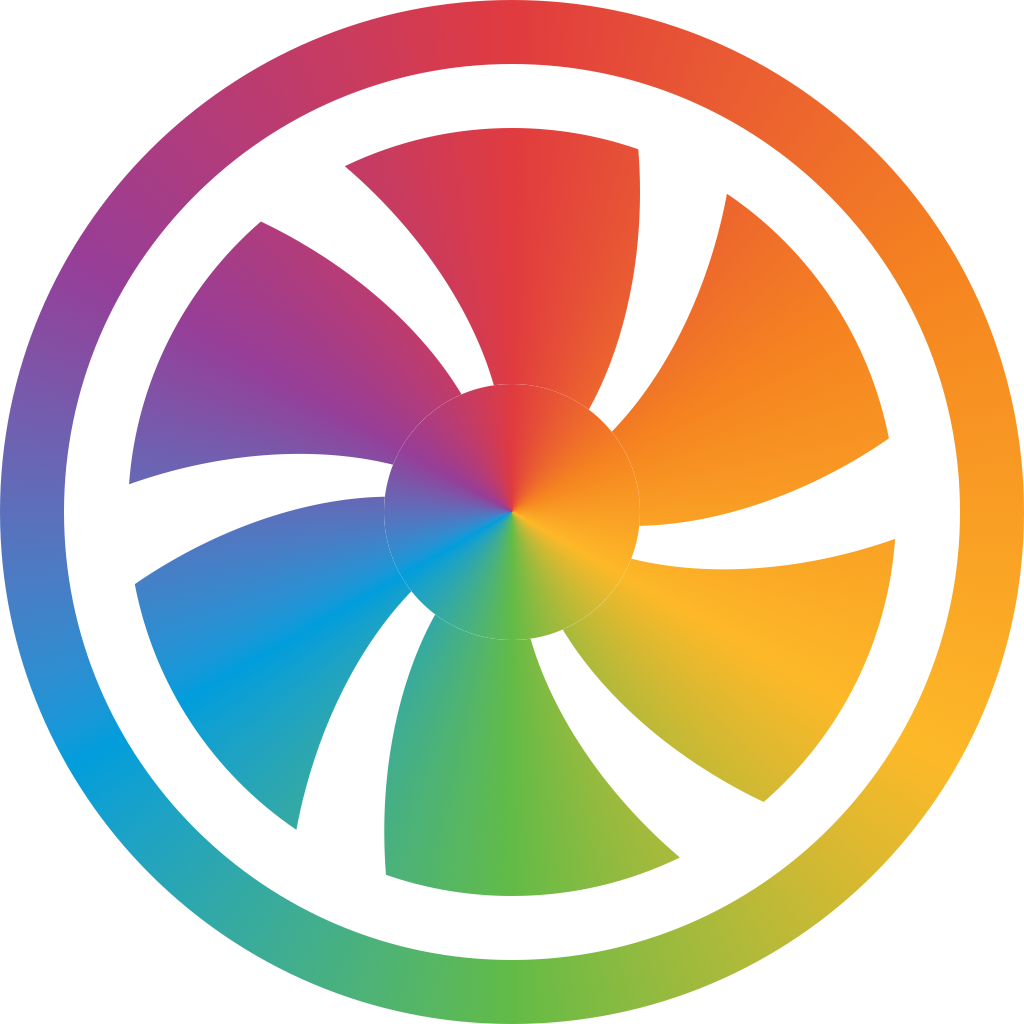
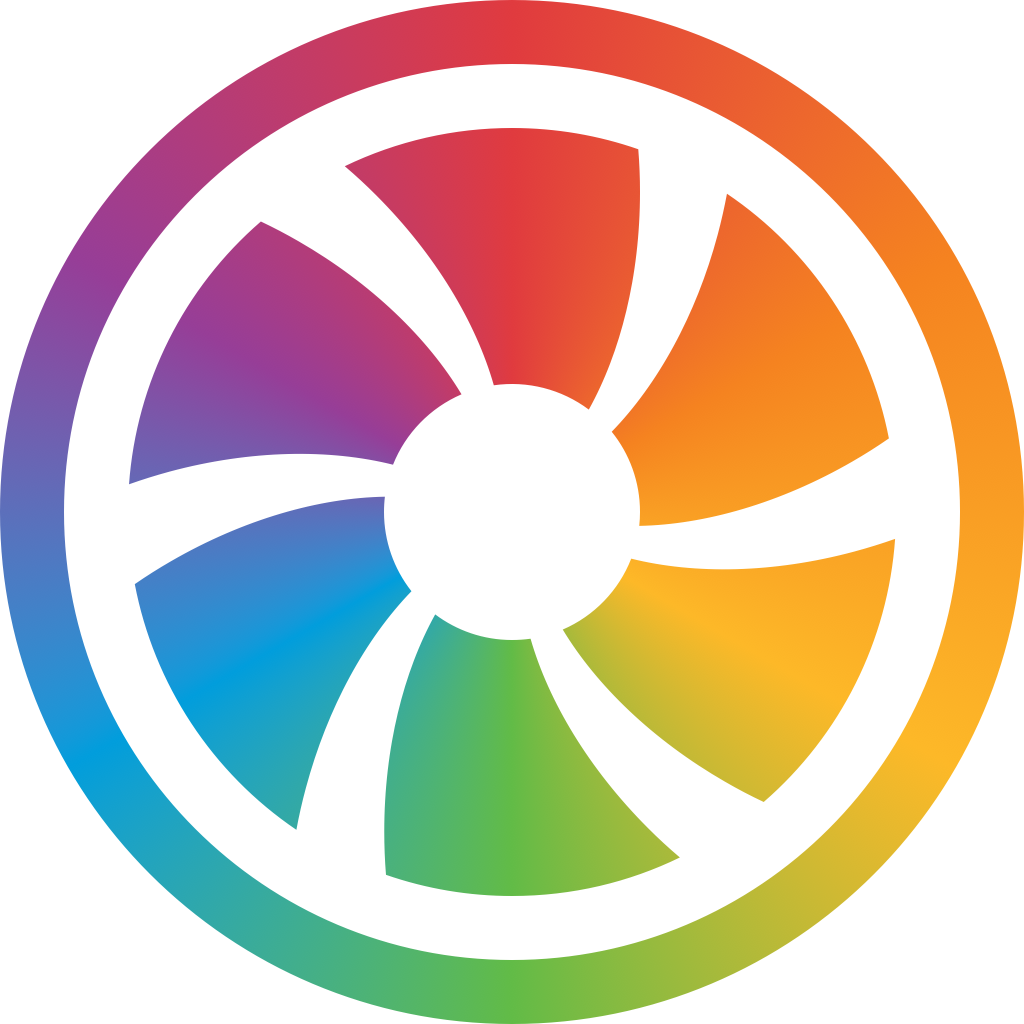
Cut the dot out of the rainbow fan's hub

Changed region(s): [[0.375, 0.375, 0.625, 0.625]]

diff --git a/scripts/make-rainbow-icon.swift b/scripts/make-rainbow-icon.swift
@@ -25,9 +25,10 @@ for name in ["housing.svg", "blades.svg"] {
     guard let part = NSImage(contentsOf: parts.appendingPathComponent(name)) else { fatalError("no \(name)") }
     part.draw(in: rect)
 }
-// The hub is filled in, so the middle of the rainbow fan is one disc with no dot of its own.
-NSColor.black.setFill()
-NSBezierPath(ovalIn: NSRect(x: side / 2 - 128, y: side / 2 - 128, width: 256, height: 256)).fill()
+// The dot in the middle of the mark is cut out, so the rainbow fan has an open hub. The blades
+// begin 128 points from the middle, and the dot is 64 points across from its middle.
+context.cgContext.setBlendMode(.clear)
+context.cgContext.fillEllipse(in: CGRect(x: side / 2 - 100, y: side / 2 - 100, width: 200, height: 200))
 // The wheel of colors is drawn through the fan, so only the fan takes it.
 context.cgContext.setBlendMode(.sourceIn)
 let wheel = CAGradientLayer()

diff --git a/AirFlow/Views/Components/AirAnimation.swift b/AirFlow/Views/Components/AirAnimation.swift
@@ -231,9 +231,10 @@ struct Rotor: View {
                 .mask {
                     ZStack {
                         AirAnimation(name: Animations.rotor, loops: true, isActive: isActive, speed: Self.turnsPerSecond(for: fan), tint: .white)
-                        // The hub is filled in, so the middle is one disc with no dot of its own.
-                        Circle().frame(width: size * 0.25, height: size * 0.25)
+                        // The dot in the middle is cut out, so the rainbow fan has an open hub.
+                        Circle().frame(width: size * 0.2, height: size * 0.2).blendMode(.destinationOut)
                     }
+                    .compositingGroup()
                 }
                 .frame(width: size, height: size)
         } else {
